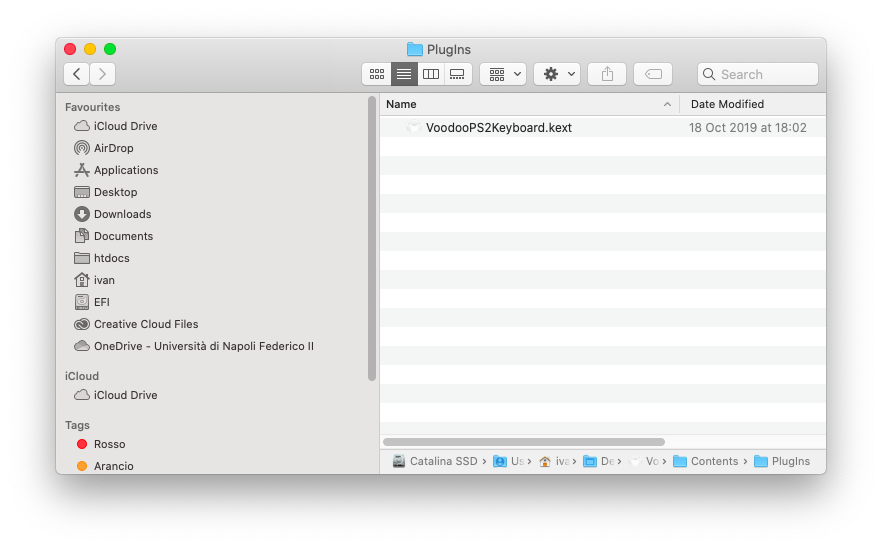
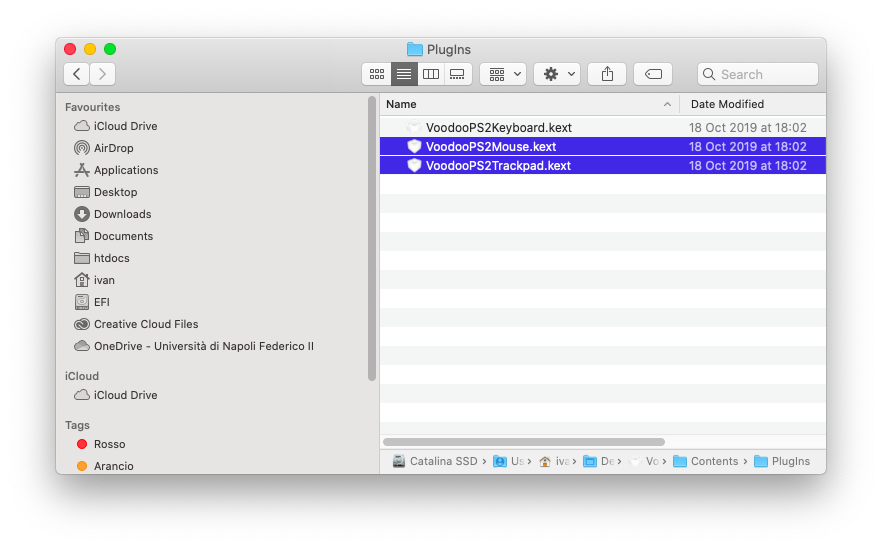
GitBook: [master] 3 pages and 22 assets modified

Changed region(s): [[0.4286, 0.2482, 0.949, 0.3412], [0.6735, 0.1241, 0.7041, 0.1551]]

diff --git a/trackpad/voodooi2c/README.md b/trackpad/voodooi2c/README.md
@@ -42,7 +42,7 @@ Activating I2C devices requires **working** [EC](../../acpi/ec.md) and [patched 
 
 Open GenI2C and go in Diagnosis section
 
-![](../../.gitbook/assets/image%20%2832%29.png)
+![](../../.gitbook/assets/image%20%2833%29.png)
 
 {% hint style="danger" %}
 If CPU Generation Support led is red you can't add support for I2C devices on your laptop
@@ -75,7 +75,7 @@ Please use the Rename(s) above in the given order
 ++++++++++++++++++++++++++++++++++++++
 ```
 
-![](../../.gitbook/assets/image%20%2827%29.png)
+![](../../.gitbook/assets/image%20%2828%29.png)
 
 ```text
 <key>KextsToPatch</key>
@@ -137,7 +137,7 @@ into_all method code_regex If\s+\([\\]?_OSI\s+\(\"Windows\s2013\"\)\) replace_ma
 into_all method code_regex If\s+\([\\]?_OSI\s+\(\"Windows\s2015\"\)\) replace_matched begin If(LOr(_OSI("Darwin"),_OSI("Windows 2015"))) end;        
 ```
 
-![Click on Apply, save DSDT.aml in /Volumes/EFI/EFI/CLOVER/ACPI/patched and reboot](../../.gitbook/assets/image%20%2844%29.png)
+![Click on Apply, save DSDT.aml in /Volumes/EFI/EFI/CLOVER/ACPI/patched and reboot](../../.gitbook/assets/image%20%2845%29.png)
 
 Save the file also in "Disassemled ASL File" for the next step
 
@@ -150,13 +150,13 @@ More infos can be found [here](https://voodooi2c.github.io/#Satellite%20Kexts/Sa
 
 Furthermore don't forget to remove **VoodooPS2Mouse.kext** and **VoodooPS2Trackpad.kext** inside **VoodooPS2Controller.kext** to avoid trackpad conflicts
 
-![](../../.gitbook/assets/image%20%2836%29.png)
+![](../../.gitbook/assets/image%20%2837%29.png)
 
-![](../../.gitbook/assets/image%20%2840%29.png)
+![Open Contents folder](../../.gitbook/assets/image%20%2814%29.png)
 
-![](../../.gitbook/assets/image%20%2829%29.png)
+![Open Plugins folder](../../.gitbook/assets/image%20%2830%29.png)
 
-![Remove those two kexts](../../.gitbook/assets/image%20%2831%29.png)
+![Remove those two kexts](../../.gitbook/assets/image%20%2832%29.png)
 
 ![](../../.gitbook/assets/image.png)
 
@@ -170,7 +170,7 @@ Finally copy **VoodooPS2Controller.kext** to _/Volumes/EFI/EFI/CLOVER/kexts/Othe
 
 After saving the DSDT.dsl file, open GenI2C and go in GenSSDT section
 
-![Tick &quot;Generate patches for this computer&quot; and click next](../../.gitbook/assets/image%20%2823%29.png)
+![Tick &quot;Generate patches for this computer&quot; and click next](../../.gitbook/assets/image%20%2824%29.png)
 
 ![Select &quot;Interrupt \(APIC or GPIO\)&quot; and then click on Generate](../../.gitbook/assets/image%20%286%29.png)
 
@@ -190,9 +190,9 @@ Save and reboot
 
 ![System Preferences, Trackpad, Point &amp; Click](../../.gitbook/assets/image%20%2813%29.png)
 
-![System Preferences, Trackpad, Scroll &amp; Zoom](../../.gitbook/assets/image%20%2839%29.png)
+![System Preferences, Trackpad, Scroll &amp; Zoom](../../.gitbook/assets/image%20%2840%29.png)
 
-![](../../.gitbook/assets/image%20%2847%29.png)
+![](../../.gitbook/assets/image%20%2848%29.png)
 
 **Enjoy the gestures &lt;3**
 

diff --git a/audio/applealc.md b/audio/applealc.md
@@ -38,17 +38,17 @@ Don't add those renames in Clover
 * DPCIManager
 * Hackintool
 
-![Status/Devices section](../.gitbook/assets/image%20%2846%29.png)
+![Status/Devices section](../.gitbook/assets/image%20%2847%29.png)
 
 {% hint style="warning" %}
 Please note that Hackintool suggest you some Layout IDs. In any case check the official AppleALC page for all layout ids
 {% endhint %}
 
-![Audio section](../.gitbook/assets/image%20%2822%29.png)
+![Audio section](../.gitbook/assets/image%20%2823%29.png)
 
 ### Layout ID
 
-![e.g. ALC295 layout ids](../.gitbook/assets/image%20%2819%29.png)
+![e.g. ALC295 layout ids](../.gitbook/assets/image%20%2820%29.png)
 
 Note the "layoutXX.xml" and proceed to the Installation step
 
@@ -57,11 +57,11 @@ Note the "layoutXX.xml" and proceed to the Installation step
 1. Verify that your Codec name is present in AppleALC layout id list
 2. Put the compiled kexts inside /Volumes/EFI/EFI/CLOVER/kexts/Other folder
 
-![Step 2: kext installation](../.gitbook/assets/image%20%2835%29.png)
+![Step 2: kext installation](../.gitbook/assets/image%20%2836%29.png)
 
 ### Get PCIRoot address using gfxutil
 
-![...and drag the executable &quot;gfxutil&quot; inside the terminal window and type &quot;-f HDEF&quot; ](../.gitbook/assets/image%20%2834%29.png)
+![...and drag the executable &quot;gfxutil&quot; inside the terminal window and type &quot;-f HDEF&quot; ](../.gitbook/assets/image%20%2835%29.png)
 
 Copy the DevicePath, "PciRoot\(0x0\)/Pci\(0x1f,0x3\)" and proceed to the next step
 
@@ -72,9 +72,9 @@ Copy the DevicePath, "PciRoot\(0x0\)/Pci\(0x1f,0x3\)" and proceed to the next st
 3. Go in Devices/Properties section
 4. Fill the fields as below
 
-![Mount EFI and open config.plist](../.gitbook/assets/image%20%2817%29.png)
+![Mount EFI and open config.plist](../.gitbook/assets/image%20%2818%29.png)
 
-![Set Audio/Inject to No and change 77 with your layout-id](../.gitbook/assets/image%20%2820%29.png)
+![Set Audio/Inject to No and change 77 with your layout-id](../.gitbook/assets/image%20%2821%29.png)
 
 
 
@@ -100,7 +100,7 @@ Make sure that _Internal Speakers_ is in Output devices
 Test only your speakers. For the 3.5mm combojack follow the next section
 {% endhint %}
 
-![System Preferences, Sound and check Output section](../.gitbook/assets/image%20%2837%29.png)
+![System Preferences, Sound and check Output section](../.gitbook/assets/image%20%2838%29.png)
 
 ## Credits
 

diff --git a/trackpad/voodooi2c/fixes.md b/trackpad/voodooi2c/fixes.md
@@ -16,7 +16,7 @@ description: The following is a collection of fixes that I've found during the t
 
 Open GenI2C, Diagnosis section
 
-![](../../.gitbook/assets/image%20%2833%29.png)
+![](../../.gitbook/assets/image%20%2834%29.png)
 
 #### Requirements
 
@@ -31,9 +31,9 @@ Open GenI2C, Diagnosis section
 3. Navigate to /Volumes/EFI/EFI/CLOVER/ACPI/patched
 4. Open DSDT.aml with MaciASL
 
-![Step 1: search &quot;I2C&quot;](../../.gitbook/assets/image%20%2815%29.png)
+![Step 1: search &quot;I2C&quot;](../../.gitbook/assets/image%20%2816%29.png)
 
-![](../../.gitbook/assets/image%20%2828%29.png)
+![](../../.gitbook/assets/image%20%2829%29.png)
 
 Change `USTP` to `One` as depicted in the following screenshot
 
@@ -43,11 +43,11 @@ Change `I2C1` to `I2C0`
 
 ![Change \_SB.PCI0.I2C1 to...](../../.gitbook/assets/image%20%284%29.png)
 
-![](../../.gitbook/assets/image%20%2826%29.png)
+![](../../.gitbook/assets/image%20%2827%29.png)
 
 Save and reboot and test again with GenI2C diagnosis section
 
 It should be as depicted in the following screenshot
 
-![No more &quot;Missing SSCN or FFMC bus speed config&quot;](../../.gitbook/assets/image%20%2821%29.png)
+![No more &quot;Missing SSCN or FFMC bus speed config&quot;](../../.gitbook/assets/image%20%2822%29.png)
 
